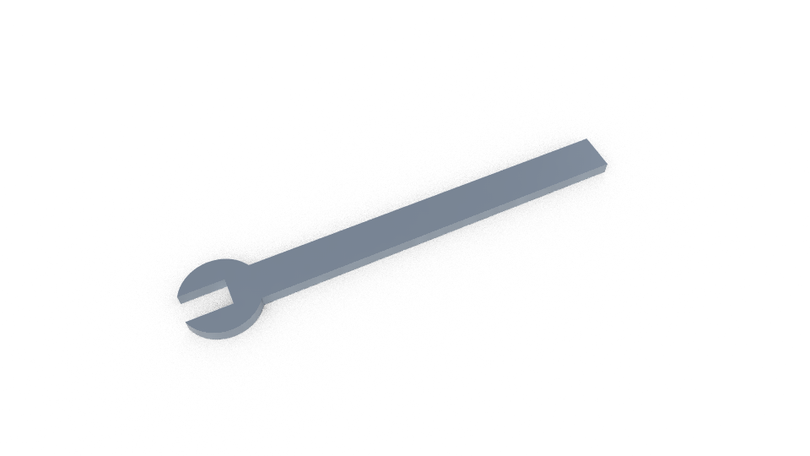
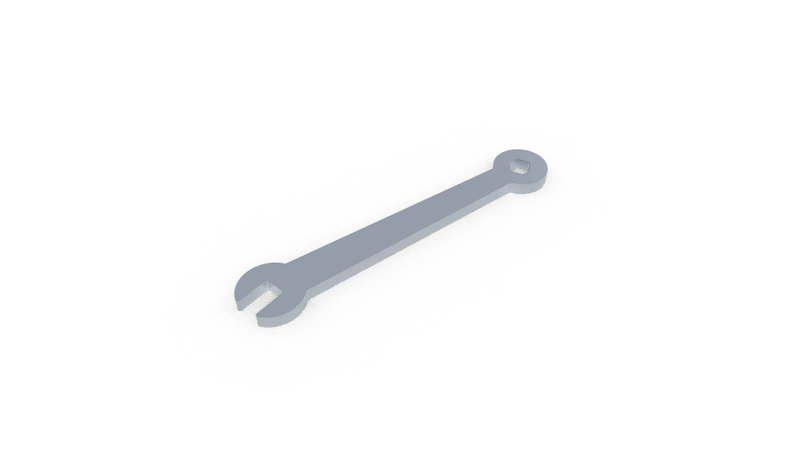
Rebuild the wrench as a combination wrench with saved static studies; add select_tab tool (#85)
Claude-Session: https://claude.ai/code/session_0124owrXc1urqgL33ufn5Joa

Changed region(s): [[0.216, 0.307, 0.7716, 0.7675]]

diff --git a/gallery/build_wrench.py b/gallery/build_wrench.py
@@ -1,8 +1,10 @@
-"""Open-end wrench: a steel hand tool modeled in Solid and checked with Prism's static structural analysis (CAE). Purely illustrative.
+"""Combination wrench: a 13 mm chrome-vanadium spanner with an angled open end and a hex box end, modeled in Solid and set up for Prism's CAE studies.
 
-A 6 mm thick flat steel wrench for 13 mm hex nuts: a 36 mm round head with a 13 mm jaw slot, joined to a 190 mm x 18 mm handle. The study fixes the two
-jaw flats, pushes the handle end sideways with 200 N and solves with 10-node tetrahedra. The script compares the result with beam theory (a cantilever of
-the handle: tip deflection F L^3 / 3 E I and root stress M c / I), repeats the solve on a coarser mesh to show convergence, and requires a safety factor above 1.
+An 8 mm plate: a 38 mm round head at the origin with a 13 mm jaw slot angled 15 degrees off the handle axis, a handle that tapers from 24 mm to 16 mm wide, and
+a 34 mm ring end 175 mm away with a 13 mm hexagon hole. Outer corners are rounded and the faces are edge-softened. Five static load cases are saved in the file
+(self weight, a hammer blow on the ring end, a 900 N cheater-pipe overload, 300 N torque through the box end, 300 N torque through the open end). The file reopens
+on the CAE tab with the open-end torque case active, so the user only has to press Run. The script solves all five, checks the load balance, that the torque
+cases stay elastic (safety factor above 1) and the overload yields, and that a coarser mesh agrees on displacement.
 
 python gallery/build_wrench.py --discovery <discovery.json> [--render-only] [--no-render]
 """
@@ -13,11 +15,12 @@ import build_examples as study
 
 cad = study.cad
 
-STEEL = "steel"                       # Mild Steel (A36): E 200 GPa, yield 250 MPa
-T, HEAD_R, JAW = 6.0, 18.0, 13.0      # thickness, head radius, jaw opening (nut across flats)
-LENGTH, WIDTH = 190.0, 18.0           # handle length from the head centre, handle width
-FORCE = 200.0                         # N, sideways at the handle end
-MESH = 2.0                            # mm element size
+STEEL = dict(material="steel", color="#B9C0C8", metal=1, roughness=.18)
+T = 8.0                                   # plate thickness
+HEAD_R, RING_R, RING_X = 19.0, 17.0, 175.0
+JAW, HEX = 13.0, 13.0                     # jaw opening and hex hole across flats
+ANGLE = math.radians(15)                  # open end angle off the handle axis
+MESH = 2.5
 
 
 def sketch(entities):
@@ -26,49 +29,76 @@ def sketch(entities):
     return cad.get(cad.call("sketch_finish")["sketch"])
 
 
-def solve(size):
-    cad.call("study_new", object="Wrench", element_size=size)
-    cad.call("run_command", name="sim_fixed", slots={"Faces to support": [{"object": "Wrench", "face": f} for f in jaw_faces]})
-    cad.call("run_command", name="sim_force", slots={"Faces to load": [{"object": "Wrench", "face": end_face}]}, params={"Force": FORCE, "Direction": "+Y"})
-    return cad.call("study_run", show="von Mises")["results"]
+def rot(p, a):
+    return [p[0] * math.cos(a) - p[1] * math.sin(a), p[0] * math.sin(a) + p[1] * math.cos(a)]
+
+
+def join(entities):
+    cad.run("extrude", slots={"Profile": sketch(entities).name}, distance=T, operation="Join")
+
+
+def cut(entities):
+    cad.run("extrude", slots={"Profile": sketch(entities).name}, distance=T + 4, operation="Cut")
+
+
+def faces(**f):
+    return cad.call("solid_find", object="Wrench", kind="faces", limit=80, **f)["hits"]
+
+
+def new_study(fixed, loads):
+    cad.call("study_new", object="Wrench", element_size=MESH)
+    cad.call("run_command", name="sim_fixed", slots={"Faces to support": [{"object": "Wrench", "face": f} for f in fixed]})
+    for slots, params in loads:
+        cad.call("run_command", name=slots[0], slots={slots[1]: [{"object": "Wrench", "face": f} for f in slots[2]]}, params=params)
 
 
 def build():
-    global jaw_faces, end_face
     cad.call("document_new")
-    with cad.history("Wrench - Solid and CAE workflow"):
+    with cad.history("Combination wrench - Solid and CAE workflow"):
         head = cad.extrude(sketch([{"type": "circle", "center": [0, 0], "radius": HEAD_R}]), distance=T)
         head.rename("Wrench")
-        handle = sketch([{"type": "rect", "corner1": [0, -WIDTH / 2], "corner2": [LENGTH, WIDTH / 2]}])
-        cad.run("extrude", slots={"Profile": handle.name}, distance=T, operation="Join")
-        jaw = sketch([{"type": "rect", "corner1": [-30, -JAW / 2], "corner2": [4, JAW / 2]}])
-        cad.run("extrude", slots={"Profile": jaw.name}, distance=T + 2, operation="Cut")
+        join([{"type": "polyline", "points": [[0, -12], [0, 12], [RING_X, 8], [RING_X, -8]], "closed": True}])
+        join([{"type": "circle", "center": [RING_X, 0], "radius": RING_R}])
+        jaw = [rot(p, ANGLE) for p in ([-40, -JAW / 2], [3, -JAW / 2], [3, JAW / 2], [-40, JAW / 2])]
+        cut([{"type": "polyline", "points": jaw, "closed": True}])
+        r = HEX / math.sqrt(3)             # circumradius of a hexagon with 13 mm across flats
+        cut([{"type": "polyline", "points": [[RING_X + r * math.cos(math.radians(60 * i)), r * math.sin(math.radians(60 * i))] for i in range(6)], "closed": True}])
         for o in cad.objects():
             if o.kind == "Sketch":
                 cad.call("object_update", object=o.name, visible=False)
-        cad.call("material_apply", object="Wrench", material=STEEL, color="#9AA3AD", roughness=.3)
+        edges = cad.call("solid_find", object="Wrench", kind="edges", direction=[0, 0, 1], limit=80)["hits"]
+        cad.fillet([dict(object="Wrench", edge=e["edge"]) for e in edges], radius=1.5)
+        rim = cad.call("solid_find", object="Wrench", kind="edges", limit=300)["hits"]
+        cad.call("material_apply", object="Wrench", **STEEL)
     info = cad.call("object_info", object="Wrench")
-    assert info["valid"] and abs(info["size"][0] - (LENGTH + math.sqrt(HEAD_R ** 2 - (JAW / 2) ** 2))) < .01 and abs(info["size"][1] - 2 * HEAD_R) < .01 and abs(info["size"][2] - T) < .01, info["size"]
-    faces = cad.call("solid_find", object="Wrench", kind="faces", type="Plane", limit=40)["hits"]
-    jaw_faces = [f["face"] for f in faces if abs(f["normal"][1]) > .99 and f["center"][0] < 0 and abs(abs(f["center"][1]) - JAW / 2) < .01]
-    end_face = next(f["face"] for f in faces if f["normal"][0] > .99 and abs(f["center"][0] - LENGTH) < .01)
-    assert len(jaw_faces) == 2, jaw_faces
+    assert info["valid"], info
+    assert abs(info["size"][2] - T) < .01 and info["size"][0] > RING_X + RING_R - 1, info["size"]
 
-    # Beam theory for the handle as a cantilever from the jaw: tip deflection F L^3 / (3 E I), root stress F L (w / 2) / I, I = t w^3 / 12
-    E, I = 200000.0, T * WIDTH ** 3 / 12
-    deflection = FORCE * LENGTH ** 3 / (3 * E * I)
-    stress = FORCE * LENGTH * (WIDTH / 2) / I
-    coarse = solve(3.0)
-    result = solve(MESH)
-    assert abs(result["reactionNet_N"] - FORCE) < 1, result
-    # the real part is stiffer than the cantilever idealisation (the head carries load too), so deflection is a little lower; peak stress adds the neck and support
-    assert .8 * deflection < result["maxDisplacement_mm"] < 1.05 * deflection, (result["maxDisplacement_mm"], deflection)
-    assert .9 * stress < result["maxVonMises_MPa"] < 1.8 * stress, (result["maxVonMises_MPa"], stress)
-    assert abs(coarse["maxDisplacement_mm"] - result["maxDisplacement_mm"]) < .05 * result["maxDisplacement_mm"], (coarse, result)
-    assert result["minSafetyFactor"] > 1, result
-    print("beam theory: deflection %.3f mm, root stress %.1f MPa | Prism: %.3f mm, %.1f MPa, safety %.2f" %
-          (deflection, stress, result["maxDisplacement_mm"], result["maxVonMises_MPa"], result["minSafetyFactor"]))
-    return "wrench", -35, 40
+    plane = faces(type="Plane")
+    jaw_faces = [f["face"] for f in plane if abs(f["normal"][2]) < .01 and math.hypot(f["center"][0], f["center"][1]) < 14 and f["area"] > 30 and abs(f["normal"][1] * math.cos(ANGLE) - f["normal"][0] * math.sin(ANGLE)) > .99]
+    hex_faces = [f["face"] for f in plane if abs(f["normal"][2]) < .01 and math.hypot(f["center"][0] - RING_X, f["center"][1]) < HEX and f["area"] > 20]
+    ring_outer = [f["face"] for f in faces(type="Cylinder") if abs(f["center"][0] - RING_X) < 4 and f["area"] > 100 and f.get("radius", 0) > 10]
+    head_outer = [f["face"] for f in faces(type="Cylinder") if abs(f["center"][0]) < 4 and f["area"] > 100 and f.get("radius", 0) > 10]
+    assert len(jaw_faces) == 2 and len(hex_faces) == 6 and ring_outer and head_outer, (jaw_faces, hex_faces, ring_outer, head_outer)
+
+    results = {}
+    def force_case(label, fixed, load_faces, newtons):
+        new_study(fixed, [(("sim_force", "Faces to load", load_faces), {"Force": newtons, "Direction": "+Y"})])
+        results[label] = cad.call("study_run")["results"]
+    # primary case is created last so it is the active study when the file is saved
+    force_case("cheater pipe 900 N, open end", jaw_faces, ring_outer, 900)
+    force_case("torque 300 N, box end", hex_faces, head_outer, 300)
+    force_case("torque 300 N, open end", jaw_faces, ring_outer, 300)
+    for label, r in results.items():
+        assert abs(r["reactionNet_N"] - r["appliedNet_N"]) < 1, (label, r)
+        print("%-30s von Mises %6.1f MPa  displacement %.3f mm  safety %.2f  (%d elements)" % (label, r["maxVonMises_MPa"], r["maxDisplacement_mm"], r["minSafetyFactor"], r["elements"]))
+    assert results["torque 300 N, open end"]["minSafetyFactor"] > 1 and results["torque 300 N, box end"]["minSafetyFactor"] > 1
+    assert results["cheater pipe 900 N, open end"]["minSafetyFactor"] < results["torque 300 N, open end"]["minSafetyFactor"]
+    # linear: tripling the force triples displacement and stress
+    a, b = results["cheater pipe 900 N, open end"], results["torque 300 N, open end"]
+    assert abs(a["maxDisplacement_mm"] / b["maxDisplacement_mm"] - 3) < .02, (a, b)
+    cad.call("select_tab", title="Static")   # the file reopens on the Static tab with the open-end torque case active
+    return "wrench", -35, 45
 
 
 if __name__ == "__main__":
@@ -81,7 +111,7 @@ if __name__ == "__main__":
     try:
         if args.render_only:
             cad.call("file", action="open", path=str(study.ROOT / "gallery/models/wrench.prism"))
-            model = ("wrench", -35, 40)
+            model = ("wrench", -35, 45)
         else:
             model = build()
         study.verify_and_save(*model, render=not args.no_render, distance=420)

diff --git a/Prism.Tests/Headless/Gallery/GalleryViewTests.cs b/Prism.Tests/Headless/Gallery/GalleryViewTests.cs
@@ -109,6 +109,20 @@ public class GalleryViewTests
         finally { if (File.Exists(path)) File.Delete(path); }
     }
 
+    [AvaloniaFact(DisplayName = "GAL-H005 | The select_tab tool switches the ribbon tab and the document remembers it")]
+    [Trait("TestId", "GAL-H005")]
+    public async Task SelectTabToolSetsTheOpeningTab()
+    {
+        var vm = new MainViewModel();
+        var api = new Prism.Automation.AutomationApi(vm, null);
+        var target = vm.Tabs.Where(t => !t.IsFile && !t.IsContextual).Last();
+        var result = await api.CallAsync("select_tab", (System.Text.Json.Nodes.JsonObject)System.Text.Json.Nodes.JsonNode.Parse("{\"title\":\"" + target.Title.ToLowerInvariant() + "\"}")!);
+        Assert.Equal(target.Title, (string?)result!["tab"]);
+        Assert.Same(target, vm.SelectedTab);
+        Assert.Equal(target.Title, vm.Session.OpeningTab);
+        await Assert.ThrowsAsync<ArgumentException>(() => api.CallAsync("select_tab", (System.Text.Json.Nodes.JsonObject)System.Text.Json.Nodes.JsonNode.Parse("{\"title\":\"nope\"}")!));
+    }
+
     [AvaloniaFact(DisplayName = "GAL-H002 | Failed model download leaves the current work and startup screen intact")]
     [Trait("TestId", "GAL-H002")]
     public async Task FailedDownloadDoesNotReplaceUserDocument()

diff --git a/Prism/Automation/AutomationApi.cs b/Prism/Automation/AutomationApi.cs
@@ -847,6 +847,16 @@ public sealed partial class AutomationApi
                 return res;
             });
 
+        Add("select_tab", "Switch the ribbon to a workspace tab by its title (for example Static, CAM, Solid). The document remembers it and reopens on that tab.",
+            Schema(["title"], ("title", "string", "Tab title, matched case-insensitively.")), a =>
+            {
+                var title = Str(a, "title");
+                var tab = _vm.Tabs.FirstOrDefault(t => !t.IsFile && !t.IsContextual && t.Title.Equals(title, StringComparison.OrdinalIgnoreCase))
+                    ?? throw new ArgumentException($"No tab '{title}'. Tabs: {string.Join(", ", _vm.Tabs.Where(t => !t.IsFile && !t.IsContextual).Select(t => t.Title))}");
+                _vm.SelectTab(tab);
+                return new JsonObject { ["tab"] = tab.Title };
+            });
+
         Add("command_set", "Change parameters and/or selection slots of the command currently open in the panel (live preview updates).",
             Schema(null, ("params", "object", "Parameter label -> value."), ("slots", "object", "Slot label -> selection.")), a =>
             {

diff --git a/docs/interface/gallery/README.md b/docs/interface/gallery/README.md
@@ -29,7 +29,7 @@ Startup stays responsive without a network connection. Models do not enter the i
 
 ## Curated collection
 
-**Open-end wrench** (workflow `CAE / Solid`, listed under CAE; [#85](https://github.com/chrizpro/prism/issues/85)) is a 6 mm flat steel wrench for 13 mm nuts with a static structural study: jaw flats fixed, 200 N sideways at the handle end, 2 mm 10-node tetrahedra (12,795 elements). Max von Mises 151 MPa, tip displacement 0.695 mm, safety factor 1.65 against A36 yield (250 MPa), reactions balance the load. Beam theory for the handle gives 0.784 mm and 117 MPa at the root; the peak is higher because it sits at the neck and jaw support. A 3 mm mesh agrees on displacement within 5%. The saved model has the body only because study results are not stored in the file. [Source script](../../../gallery/build_wrench.py), [render](evidence/wrench-render.png). An illustration, not a certified tool design.
+**Combination wrench** (workflow `CAE / Solid`, so it is listed under both CAE and Solid; [#85](https://github.com/chrizpro/prism/issues/85)) is an 8 mm chrome-vanadium plate wrench for 13 mm nuts: an open end angled 15° off the handle, a tapered handle and a hex box end, with rounded corners. Its file holds three saved static studies (about 12,900 elements each) and reopens on the Static tab with the 300 N open-end torque case active, ready to Run. Solved results: 300 N through the open end gives 169 MPa and 0.46 mm (safety factor 1.48 against A36-class yield), 300 N through the box end 161 MPa and 0.69 mm (1.55), and a 900 N cheater-pipe overload 506 MPa (0.49, yields); displacement scales linearly with the force. Modal, thermal, fatigue, topology and further load cases are planned for the same part. Study results are not stored in the file. [Source script](../../../gallery/build_wrench.py), [render](evidence/wrench-render.png). An illustration, not a certified tool design.
 
 Owner asked on 2026-11-08 ([#84](https://github.com/chrizpro/prism/issues/84)) to try CNC CAM on a wooden product. **Maple serving board** (workflow `CAM / Solid`, so it lists under CAM) is a 300 × 160 × 18 mm board with R25 corners, a 4 mm deep juice well and a through hand slot, with a saved CAM setup (6 mm wood end mill, 3 mm stock allowance, G54 at the stock's lower-left top corner) and four toolpaths: face, pocket the well, pocket the slot through, tabbed profile. About 17 minutes of machining; stock review finds no gouges, rapid contacts or holder contacts. Planning it exposed three CAM bugs fixed in the same change (button parameters through MCP, Post's folder path, a false rapid contact on spoilboard retracts). [Source script](../../../gallery/build_serving_board.py), [GAL-I009](../../../Prism.Tests/Integration/DesktopGalleryTests.cs) (written, not run on this Linux workstation), [render](evidence/serving-board-render.png). Decorative: feeds, speeds and tabs are placeholders, so prove out any program on scrap.
 

diff --git a/gallery/README.md b/gallery/README.md
@@ -10,7 +10,7 @@ Models are grouped by the main Prism workflow they show, and the app's startup g
 
 | Workflow | Models (catalog ID) |
 | --- | --- |
-| CAE / Solid | Open-end wrench (`wrench`) |
+| CAE / Solid | Combination wrench (`wrench`) |
 | CAM / Solid | Maple serving board (`serving-board`) |
 | Sheet Metal | Cardboard box (`cardboard-box`), Lotus dish (`lotus-dish`), Fold tablet stand (`fold-stand`) |
 | Solid / Assembly | Meridian orrery (`meridian-orrery`) |
@@ -36,7 +36,7 @@ The cache is content-addressed. A changed model never replaces an already opened
 
 ## Reproduce the new studies
 
-`python gallery/build_wrench.py --discovery <discovery.json>` builds the open-end wrench and runs a static study on it ([#85](https://github.com/chrizpro/prism/issues/85)): a 6 mm steel flat wrench for 13 mm nuts, jaw flats fixed, 200 N sideways at the handle end, 10-node tetrahedra at 2 mm. It checks the result against beam theory (tip deflection and root stress of the handle as a cantilever), repeats the solve at 3 mm to show convergence, and requires a safety factor above 1. The saved model holds the body only; study results are not stored in the file, so rerun the script or Prism's Static Study to see them. `--render-only` reopens the saved model. An illustration, not a certified tool design.
+`python gallery/build_wrench.py --discovery <discovery.json>` builds the combination wrench and sets up its static studies ([#85](https://github.com/chrizpro/prism/issues/85)): an 8 mm plate with an angled 13 mm open end, a tapered handle and a hex box end, rounded corners, chrome-vanadium appearance. Three load cases are saved in the file (300 N through the open end, 300 N through the box end, 900 N cheater-pipe overload) with the open-end case active, and the file reopens on the **Static** tab, so the user only presses Run. The script solves them, checks the load balance, that the torque cases stay elastic and the overload yields, and that tripling the force triples displacement. More analyses (modal, thermal, fatigue, topology, a hammer blow, self weight) are planned for this part. Study results are not stored in the file. `--render-only` reopens the saved model. An illustration, not a certified tool design.
 
 `python gallery/build_serving_board.py --discovery <discovery.json>` builds the maple serving board and its CNC plan ([#84](https://github.com/chrizpro/prism/issues/84)): a Solid body (R25 corners, a 4 mm juice well, a hand slot) and a saved CAM setup with four operations on a 6 mm wood end mill: face, pocket the well, pocket the slot through, and a tabbed profile. It asserts the volume, then runs Stock review and the design check and requires no gouges, rapid contacts or holder contacts. Building it exposed the three CAM bugs fixed beside it. `--render-only` reopens the saved model; `--no-render` skips the render. Decorative only: feeds and speeds are placeholders, so prove out any program on scrap.
 
